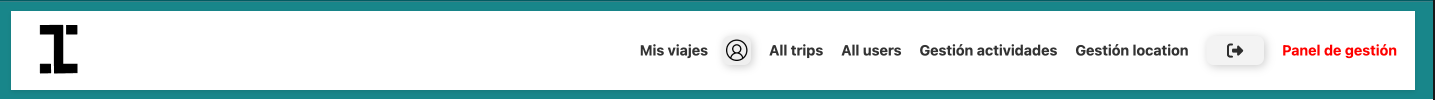
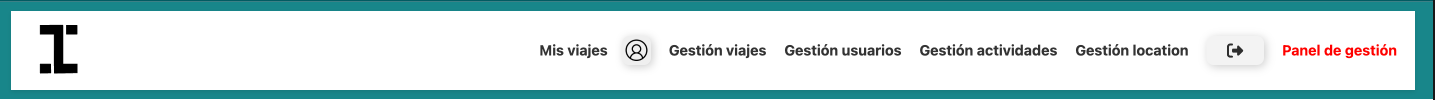
[feat] : update README

Changed region(s): [[0.3679, 0.39, 0.6439, 0.6], [0.4906, 0.63, 0.5213, 0.66], [0.4293, 0.63, 0.4599, 0.66]]

diff --git a/src/common/Header/Header.jsx b/src/common/Header/Header.jsx
@@ -102,13 +102,13 @@ export const Header = () => {
                       <LinkButton
                         classButton={"link-button-style"}
                         path={"/trips"}
-                        title={"All trips"}
+                        title={"Gestión viajes"}
                       />
 
                       <LinkButton
                         classButton={"link-button-style"}
                         path={"/users"}
-                        title={"All users"}
+                        title={"Gestión usuarios"}
                       />
 
                       <LinkButton
@@ -120,7 +120,7 @@ export const Header = () => {
                       <LinkButton
                         classButton={"link-button-style"}
                         path={"/locations-super"}
-                        title={"Gestión location"}
+                        title={"Gestión destinos"}
                       />
                     </>
                   )}

diff --git a/README.md b/README.md
@@ -69,6 +69,8 @@ Este frontend proporciona una interfaz de usuario amigable y funcional para la a
 ## Vistas
 👀 
 
+### Vistas user
+
 - Home:
 <p>
    <div align="center">
@@ -142,10 +144,44 @@ Este frontend proporciona una interfaz de usuario amigable y funcional para la a
    </div>  
 </p>
 
-- Mi viaje en detalle:
+
+### Vistas Super Admin
+
+- Header dinámico
 <p>
    <div align="center">
-      <img src="img/img-calendario.png" style="max-width: 100%;" width="300">
+      <img src="img/header-super.png" style="max-width: 100%;" width="500">
+   </div>    
+</p>
+
+
+- Gestión viajes
+<p>
+   <div align="center">
+      <img src="img/gestion-viaje.png" style="max-width: 100%;" width="300">
+   </div>    
+</p>
+
+- Gestión usuarios
+<p>
+   <div align="center">
+      <img src="img/gestion-user.png" style="max-width: 100%;" width="300">
+   </div>    
+</p>
+
+- Gestión actividades
+<p>
+   <div align="center">
+      <img src="img/gestion-actividades-1.png" style="max-width: 100%;" width="300">
+      <img src="img/gestion-actividades-2.png" style="max-width: 100%;" width="300">
+   </div>    
+</p>
+
+- Gestión destinos
+<p>
+   <div align="center">
+      <img src="img/gestion-destinos-1.png" style="max-width: 100%;" width="300">
+      <img src="img/gestion-destinos-2.png" style="max-width: 100%;" width="300">
    </div>    
 </p>
 
@@ -493,12 +529,13 @@ Claro, aquí están las ramas numeradas y formateadas en Markdown:
 
 ## Enlaces Importantes
 
-🌐 Mediante estos enlaces puedes acceder a ellos:
+🌐 Puedes acceder a documentación importante a través de estos enlaces:
 
-- **[Documentación de Laravel](https://laravel.com/docs)**
-- **[laravel/passport Documentation](https://laravel.com/docs/8.x/passport)**
+- **[Documentación de React](https://es.reactjs.org/docs/getting-started.html)**
+- **[Redux Documentation](https://redux.js.org/)**
+- **[React Router Documentation](https://reactrouter.com/)**
+- **[Bootstrap Documentation](https://getbootstrap.com/docs/5.0/getting-started/introduction/)**
 - **[GeeksHubs Academy](https://www.geekshubsacademy.com/)**
-
 
 
 ## Cómo Contribuir
